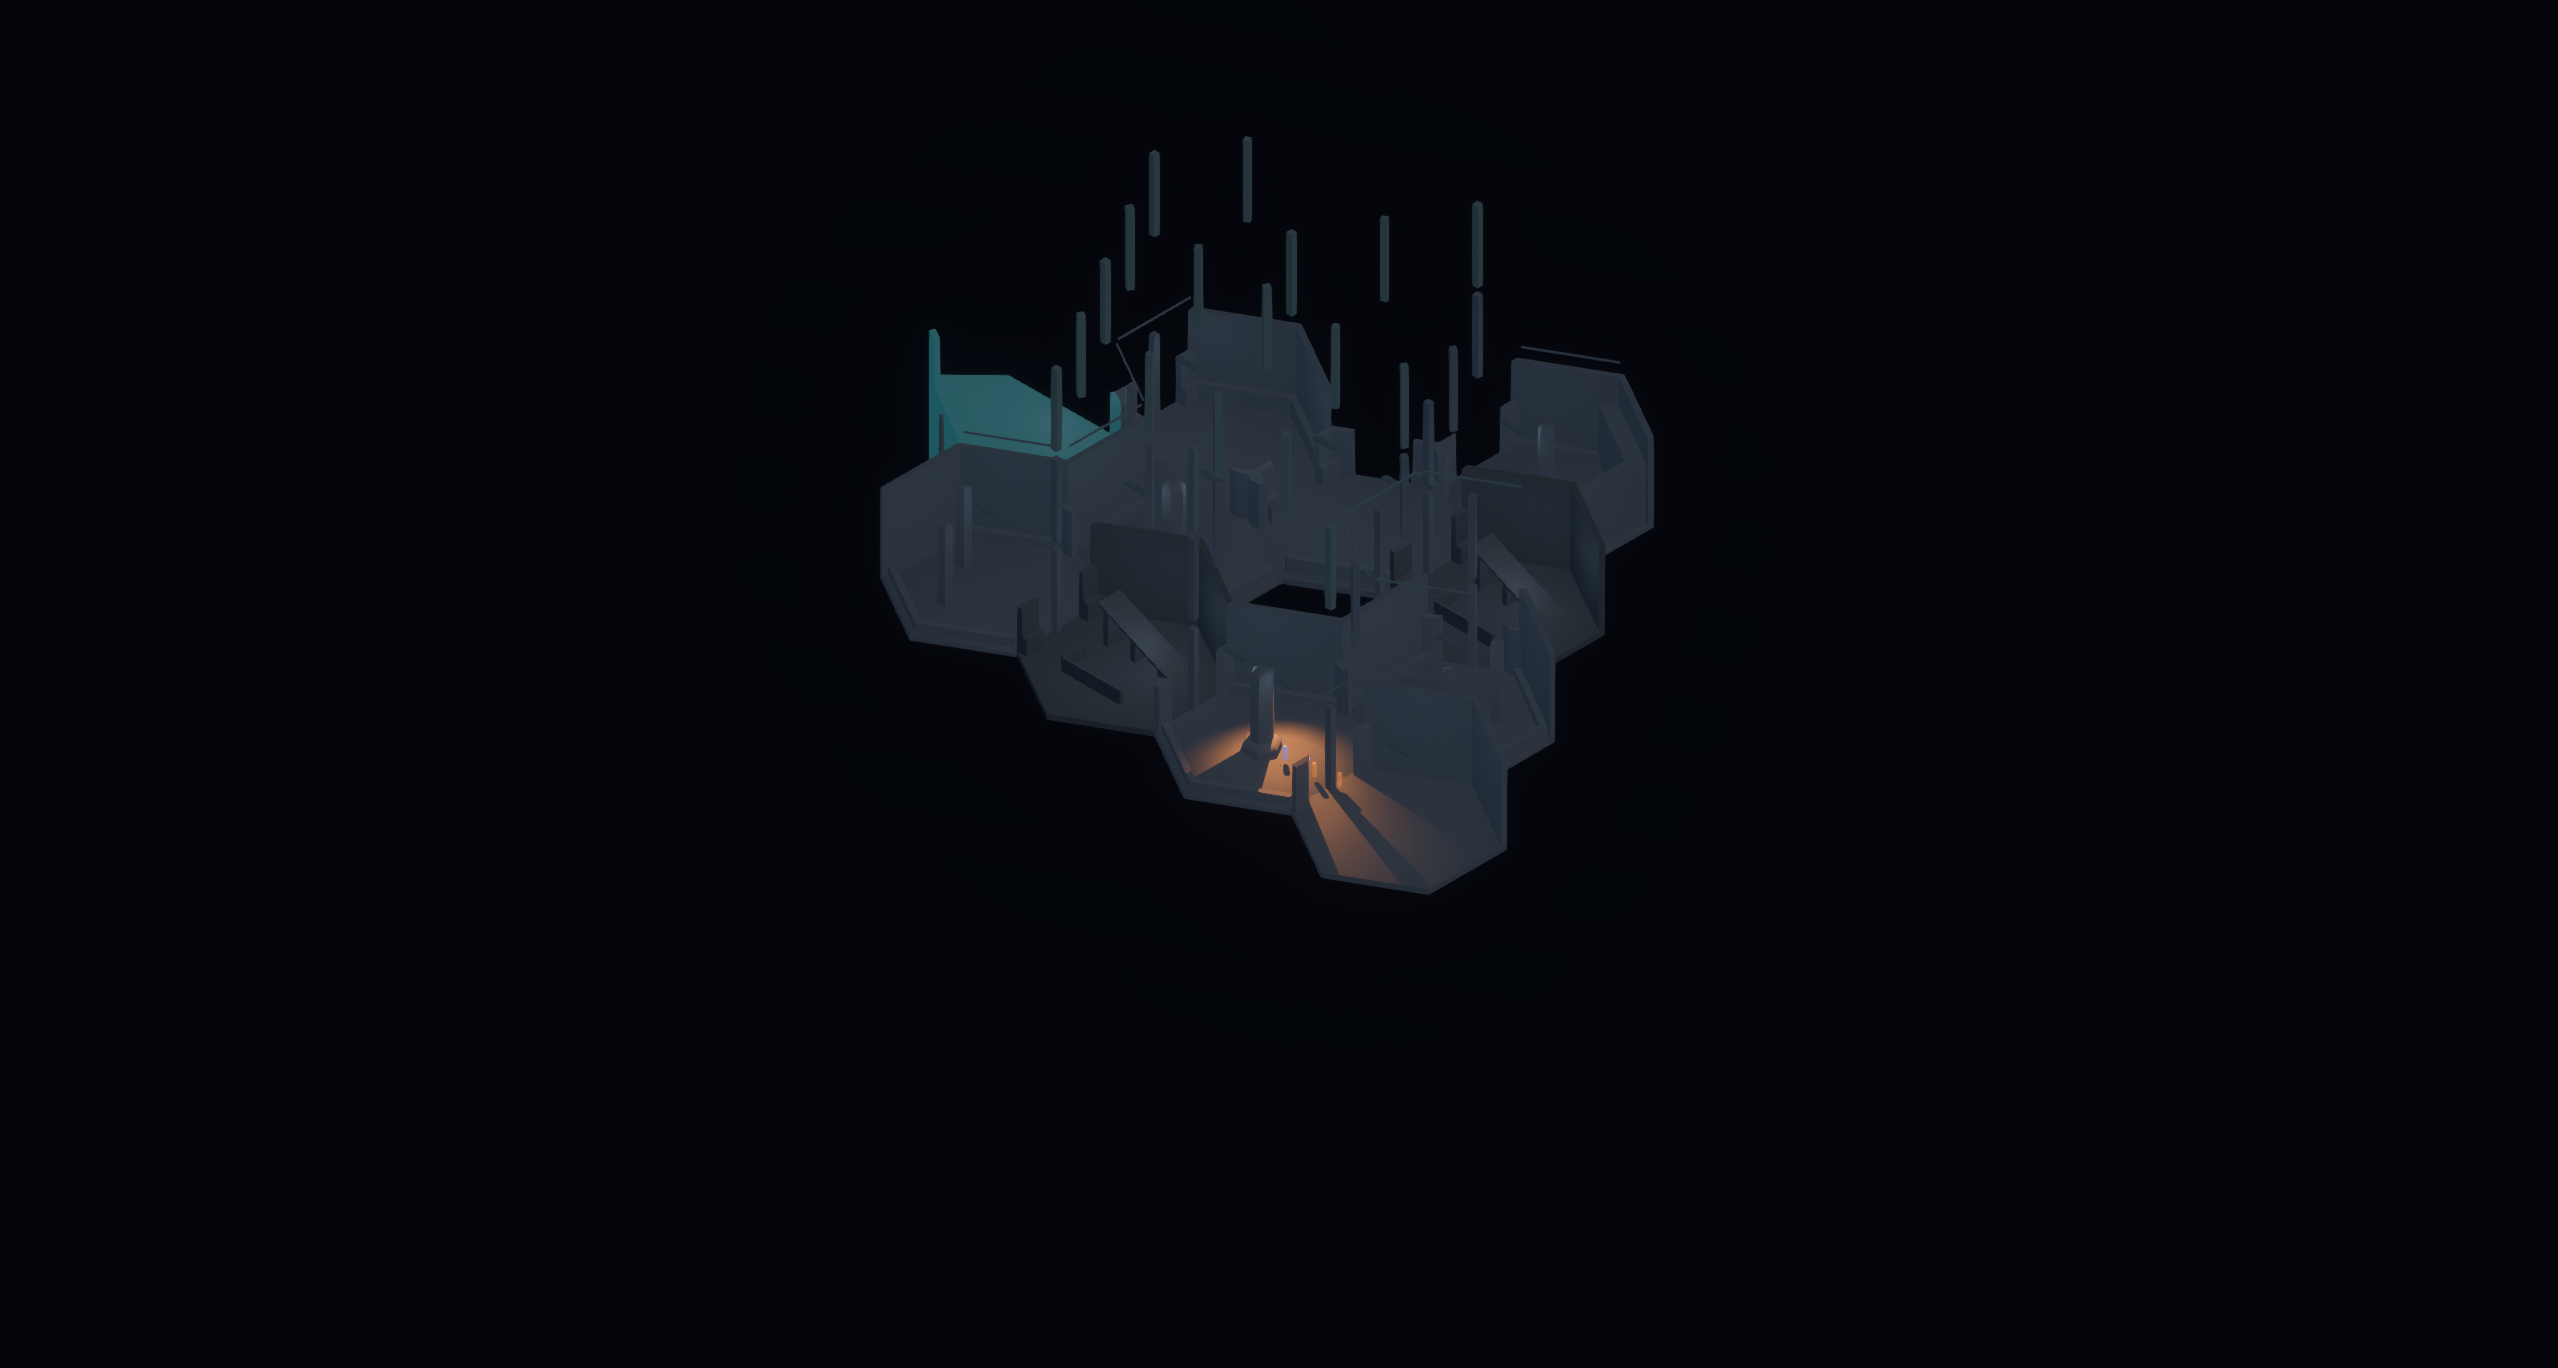
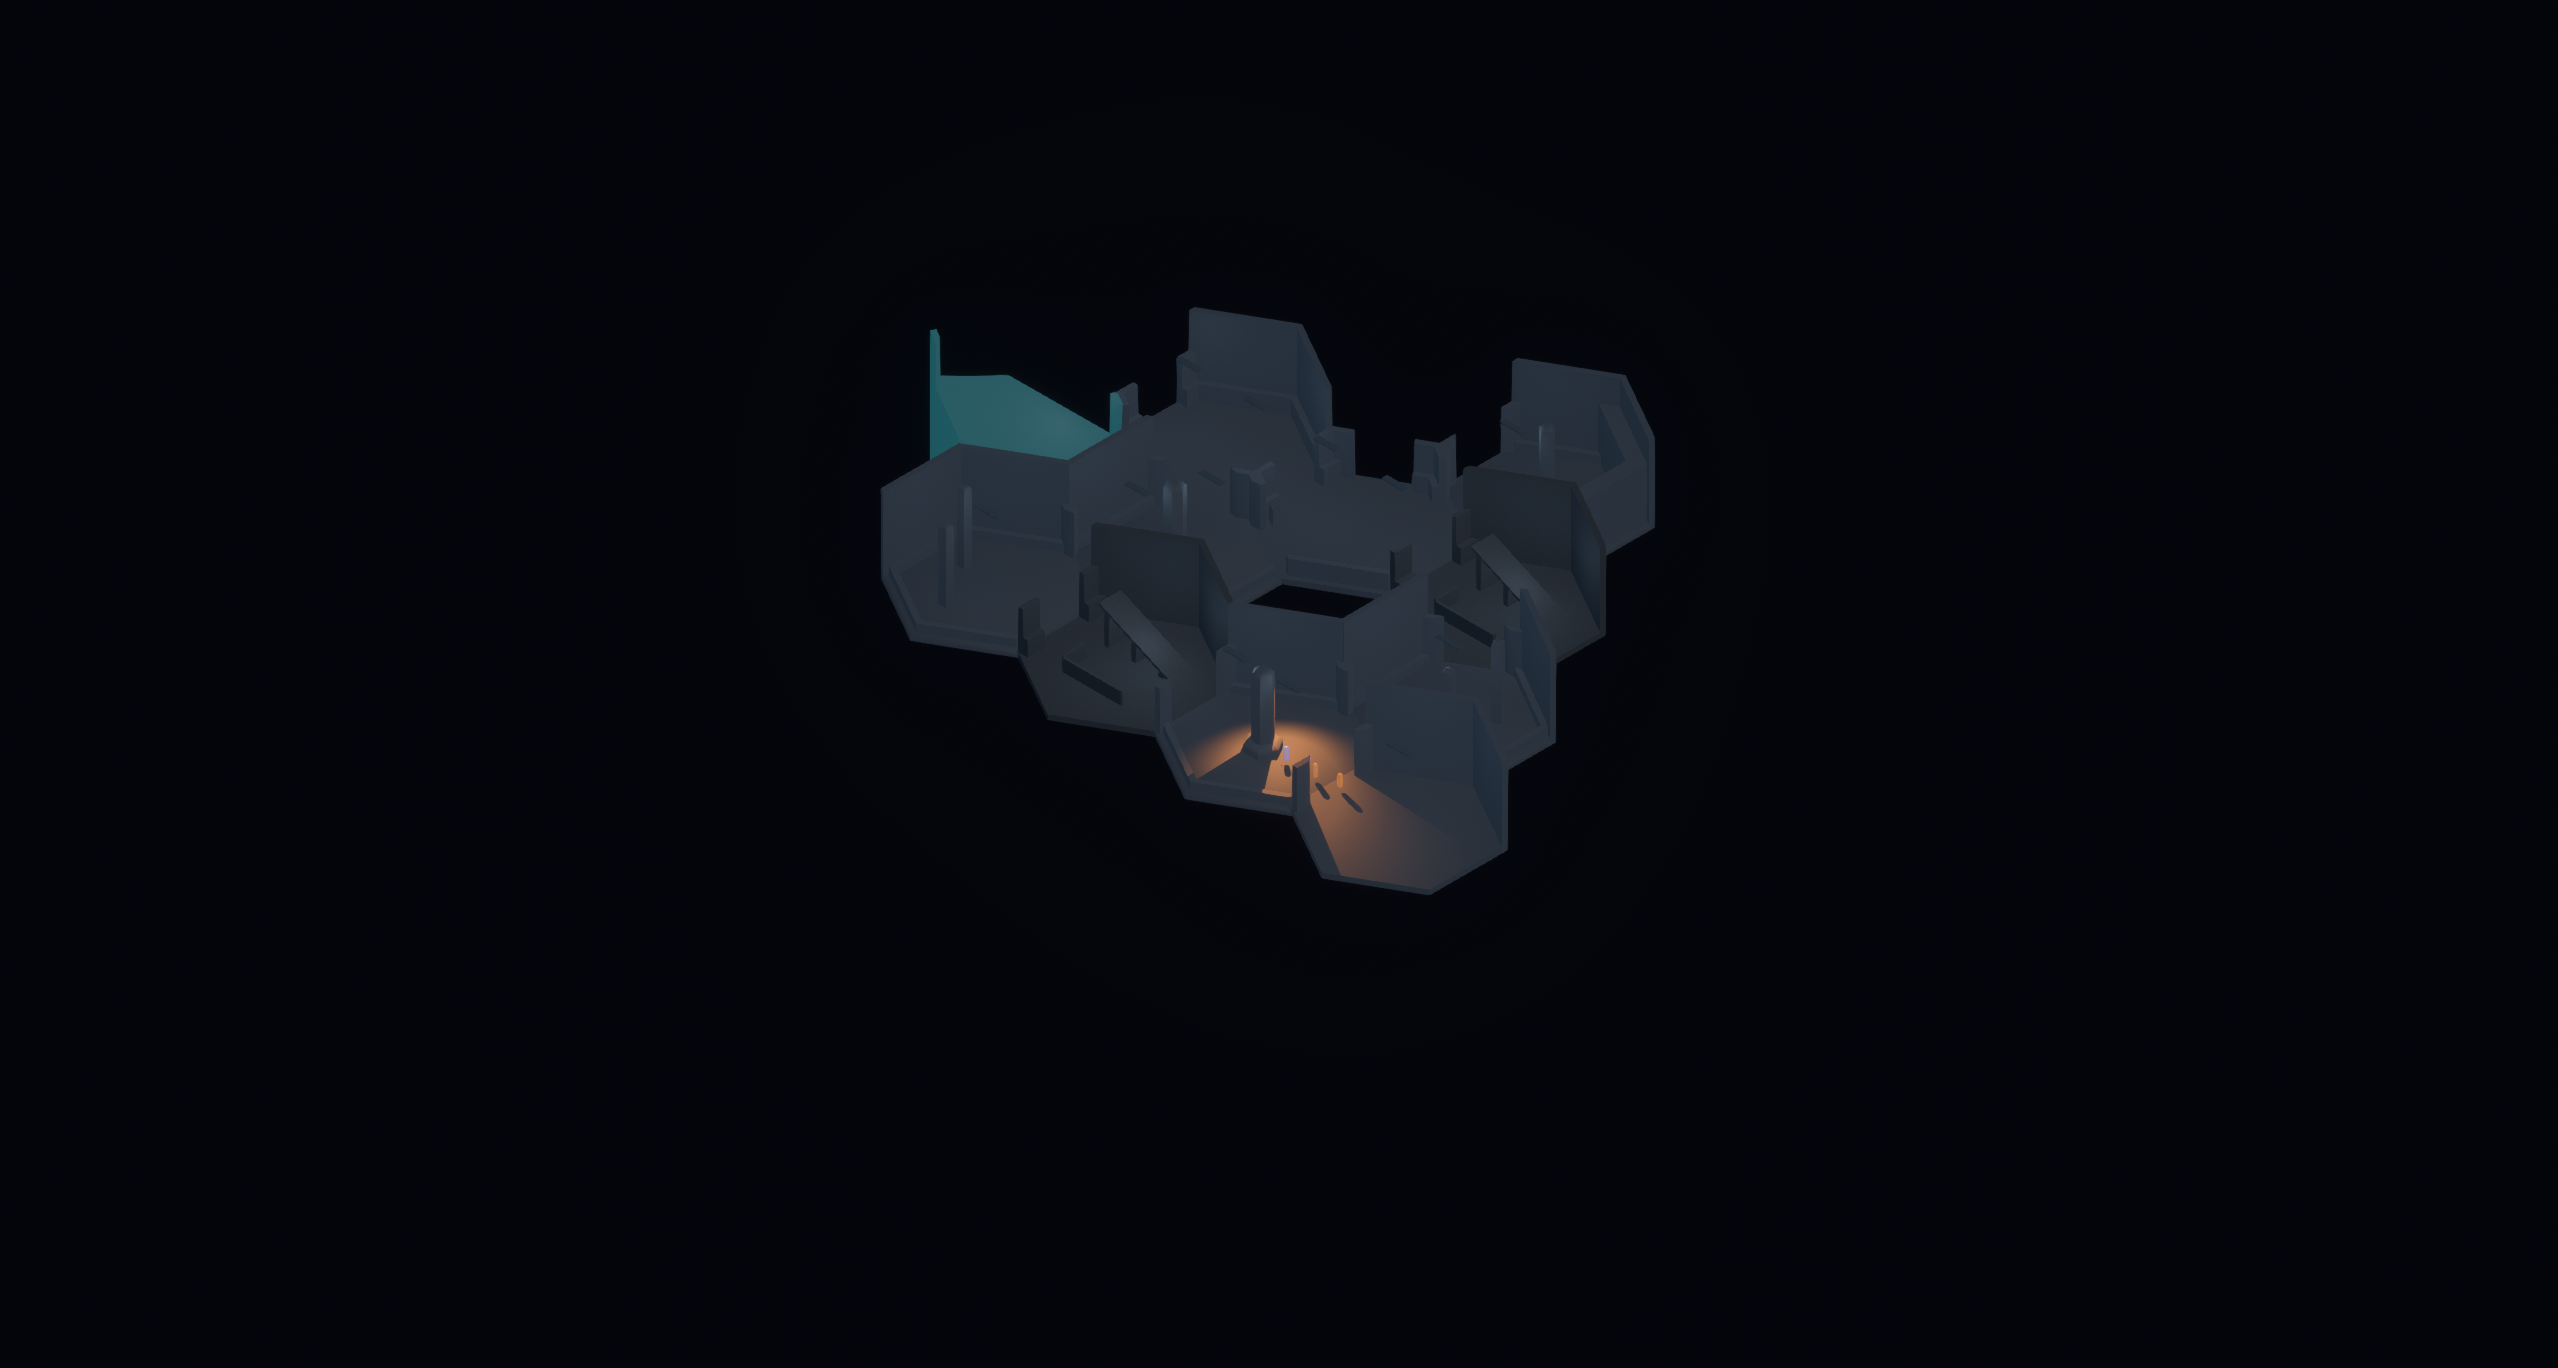
fix(hex): seam trim was the last thing drawing itself on every storey
The floating verticals over the overview's floor plan were decorative geometry
the filters could not see. Presentation spawns more than one entity per
authored thing, and the storey filter and the cutaway only ever reached
entities carrying `Cutaway` or `HexPractical`:

  spawn_piece   authored hulls              tagged
  practical     the point light             HexPractical only
  practical     the diffuser mesh           untagged  (fixed in 3337064)
  spawn_trim    seam trim, lintels, sills   untagged  (fixed here)

Both untagged spawners draw exactly where a cutaway does its work. A diffuser is
mounted on a ceiling; a lintel sits at head height on a face. Remove the ceiling
and the wall and each is left standing in the air, outliving the thing it
framed. Trim now takes the storey filter and the cutaway, measured as a point.

The plan is clean.

Worth recording how this was nearly missed, because the mistake was mine and it
was methodological. An earlier pass concluded from two tests - `trace_cutaway`
reporting `from_other_level=0`, and halving the storey band - that the stubs
were low geometry on the body's own storey. Both tests were sound and both were
blind: `trace_cutaway` iterates `Query<&Cutaway>`, so it could not see the
entities that lacked the component, which were precisely the ones in question.
An instrument built out of the filter cannot audit what the filter never
touched. What actually found it was enumerating the spawners - `grep Mesh3d`
[…]

Changed region(s): [[0.4015, 0.1228, 0.5868, 0.3377], [0.525, 0.5833, 0.5559, 0.6447], [0.4941, 0.5219, 0.525, 0.5833]]

diff --git a/game/src/hex_wfc/view/shell.rs b/game/src/hex_wfc/view/shell.rs
@@ -297,11 +297,28 @@ fn spawn_trim(
 ) {
     let mesh = assets.trim_mesh(meshes, piece.kind);
     let material = assets.trim_material(architecture);
+    // Trim is geometry too, and was the last thing in this view drawing itself
+    // on every storey whatever the cutaway said.
+    //
+    // Seam trim is a lintel or a threshold: it sits at head height on a face,
+    // which is precisely where a cutaway removes the wall around it. Untagged,
+    // a lintel outlived the doorway it framed and the ceiling above it, and
+    // stood in the air over the floor plan.
+    let origin = Vec3::from_array(hex_origin(piece.cell));
     commands.spawn((
         Mesh3d(mesh),
         MeshMaterial3d(material),
         Transform::from_translation(piece.position).with_rotation(Quat::from_array(piece.rotation)),
         Name::new(format!("Hex trim {:?} {:?}", piece.kind, piece.face)),
+        // Measured as a point, like a diffuser: trim is small next to the
+        // tests being applied to it, and its height decides them.
+        super::spectate::Cutaway {
+            local: piece.position - origin,
+            min_y: piece.position.y - origin.y,
+            max_y: piece.position.y - origin.y,
+            origin_y: origin.y,
+            cell_level: piece.cell.level,
+        },
         ChildOf(parent),
     ));
 }

diff --git a/docs/evidence/spectate/README.md b/docs/evidence/spectate/README.md
@@ -46,28 +46,34 @@ so the camera and the zoom disagreed and the view came out a thumbnail. The
 whole-facility framing helpers are deleted - with one writer there is no third
 call site, and with no function there is nothing to call by mistake.
 
-## Partly solved: the floating stubs were partly the light fixtures
+## Solved: three spawners, and only one of them was tagged
 
-A practical spawns **two** entities: a visible diffuser mesh and the point light
-beside it. Only the light carried `HexPractical`, and the mesh carried nothing -
-no storey tag and no `Cutaway`. So diffusers drew on every storey at once
-whatever the cutaway said, and a ceiling-mounted one whose ceiling had been cut
-is a thin bright stub hanging in the air.
+The floating verticals over the floor plan were **decorative geometry the
+filters could not see**. Presentation spawns more than one entity per authored
+thing, and the storey filter and the cutaway only ever applied to entities
+carrying `Cutaway` or `HexPractical`:
 
-They are geometry, so they now get what geometry gets: the storey filter and the
-cutaway, measured as a point because a diffuser is small next to the tests being
-applied to it. That removed a good half of the stubs.
+| spawner | what it draws | was tagged |
+|---|---|---|
+| `spawn_piece` | authored hulls | yes |
+| practical | the point light | `HexPractical` only |
+| practical | the **diffuser mesh** beside it | **no** |
+| `spawn_trim` | **seam trim** - lintels, thresholds | **no** |
 
-**A cluster at the far side remains, and is not fixtures.** Earlier work
-(`5ffe59e`) established by two independent tests that those are low geometry on
-the body's own storey - narrow wall segments and jambs left standing when the
-cutaway removed what stood beside them. `survives` keeps far walls and drops
-near ones, and a jamb whose neighbours went reads as a post in mid-air.
+Both untagged spawners draw exactly where a cutaway does its work: a diffuser
+is mounted on a ceiling, a lintel sits at head height on a face. Remove the
+ceiling and the wall and they are left standing in the air. Both now take the
+storey filter and the cutaway, measured as points - each is small next to the
+tests being applied to it, and its height is what decides them.
 
-Two directions, neither obviously right: cull a hull whose neighbours in the
-same cell were culled (needs adjacency the pieces do not carry), or widen
-`INTERIOR_RADIUS` so narrow perimeter fittings count as interior and stay with
-the floor.
+**A caution about how this was nearly missed.** An earlier pass concluded, from
+`trace_cutaway` reporting `from_other_level=0` and from halving the storey band,
+that the stubs were low geometry on the body's own storey. Both tests were
+sound and both were blind: `trace_cutaway` iterates `Query<&Cutaway>`, so it
+could not see the very entities that lacked the component. An instrument built
+from the filter cannot audit what the filter never touched. The reliable check
+was enumerating the spawners - `grep Mesh3d` over the view - not measuring the
+ones already accounted for.
 
 ## Solved: position and scale must frame the same box
 
